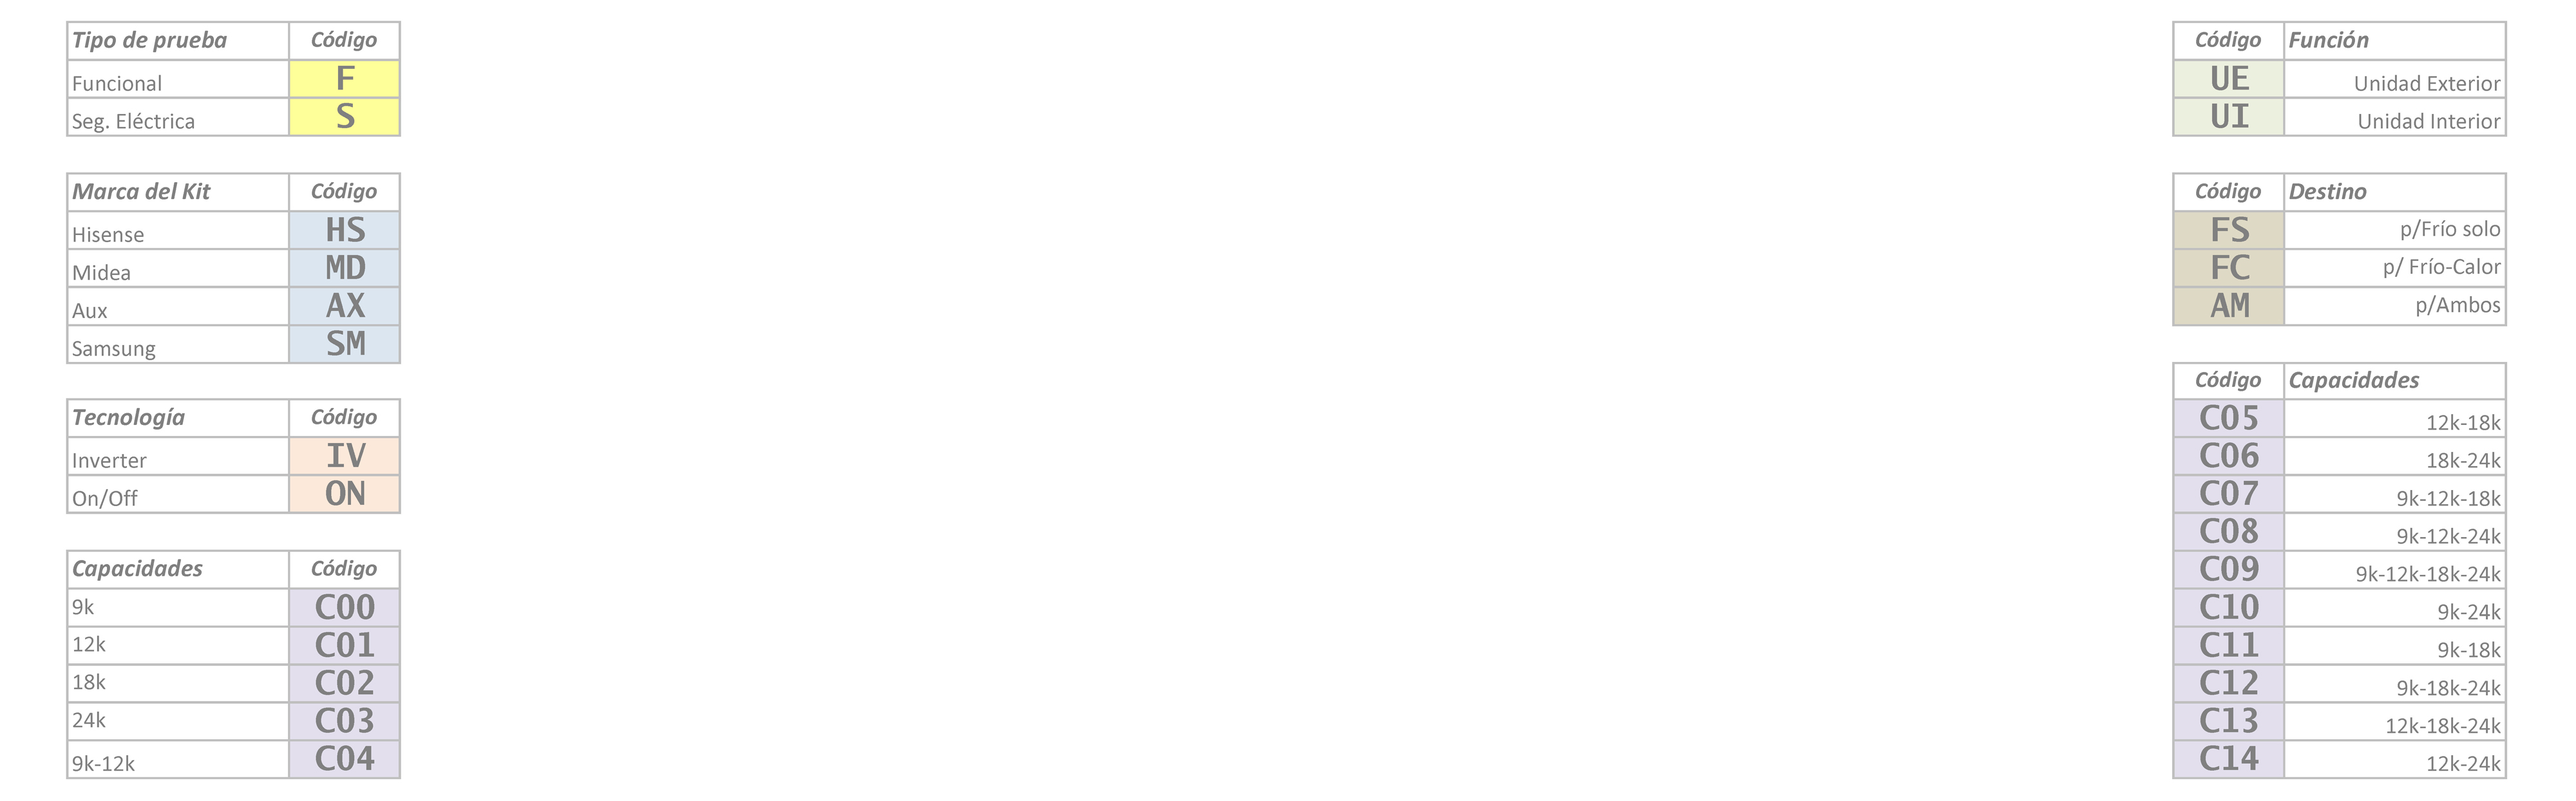
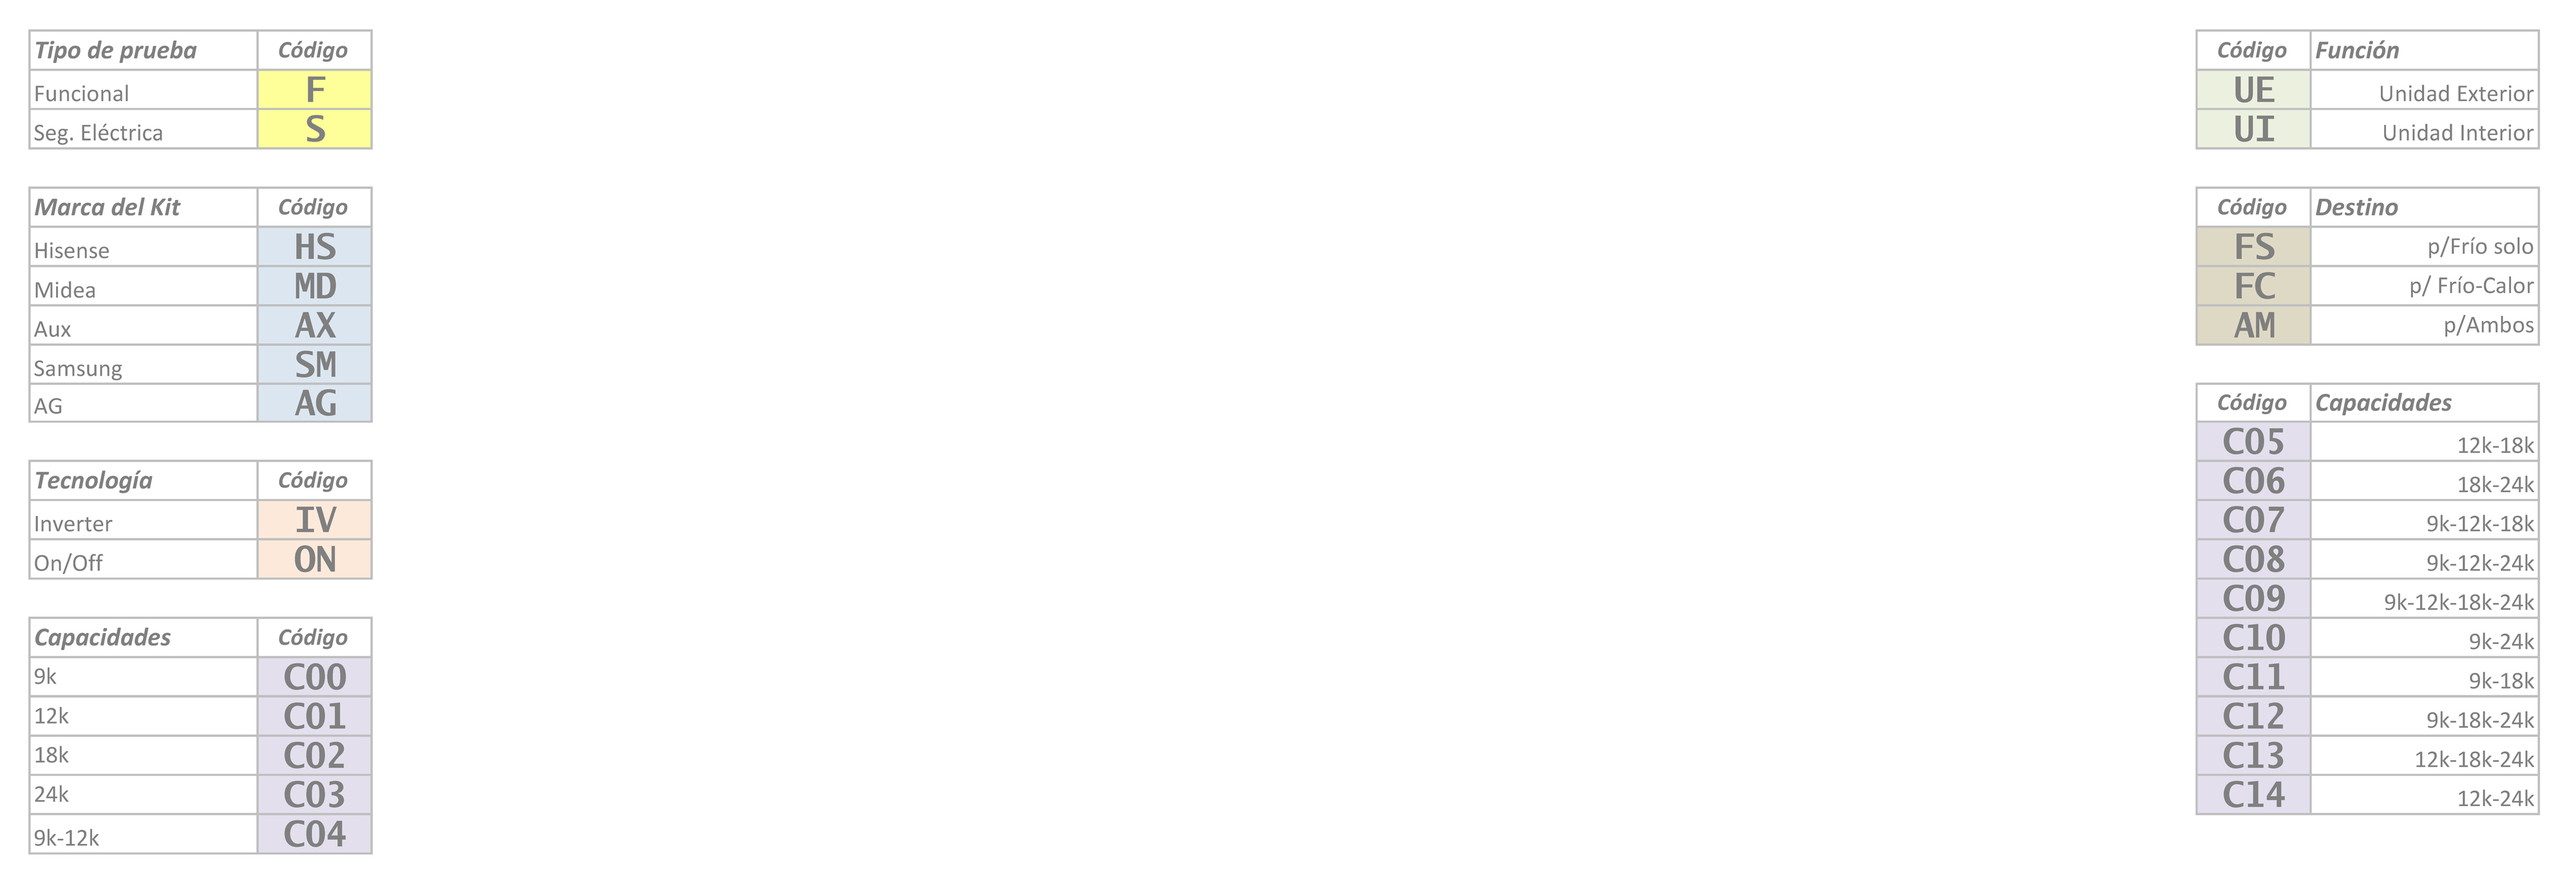
Se intrujo la marca AG

diff --git a/js/invgenerador.js b/js/invgenerador.js
@@ -83,13 +83,6 @@ $(document).ready(function() {
     $("#iborrar").click(function() {
         borrar();
     });
-
-    /*
-    $("#codingresado").change(function() {
-        borrar();
-    });
-    */
-    
 })
 
 function tipoprueba(tipop) {
@@ -105,6 +98,7 @@ function marcakit(marcak) {
     if(marcak == "MD") return "Midea";
     if(marcak == "AX") return "Aux";
     if(marcak == "SM") return "Samsung";
+    if(marcak == "AG") return "AG";
     return "ERR";
 }
 

diff --git a/js/version.js b/js/version.js
@@ -1,5 +1,5 @@
 $(document).ready(function() {
-    var version = "RT v2.4.0"
-    var fecha = "2021-07-30"
+    var version = "RT v2.5.0"
+    var fecha = "2021-08-30"
     $("label.version").text(version + " / " + fecha);
 });
